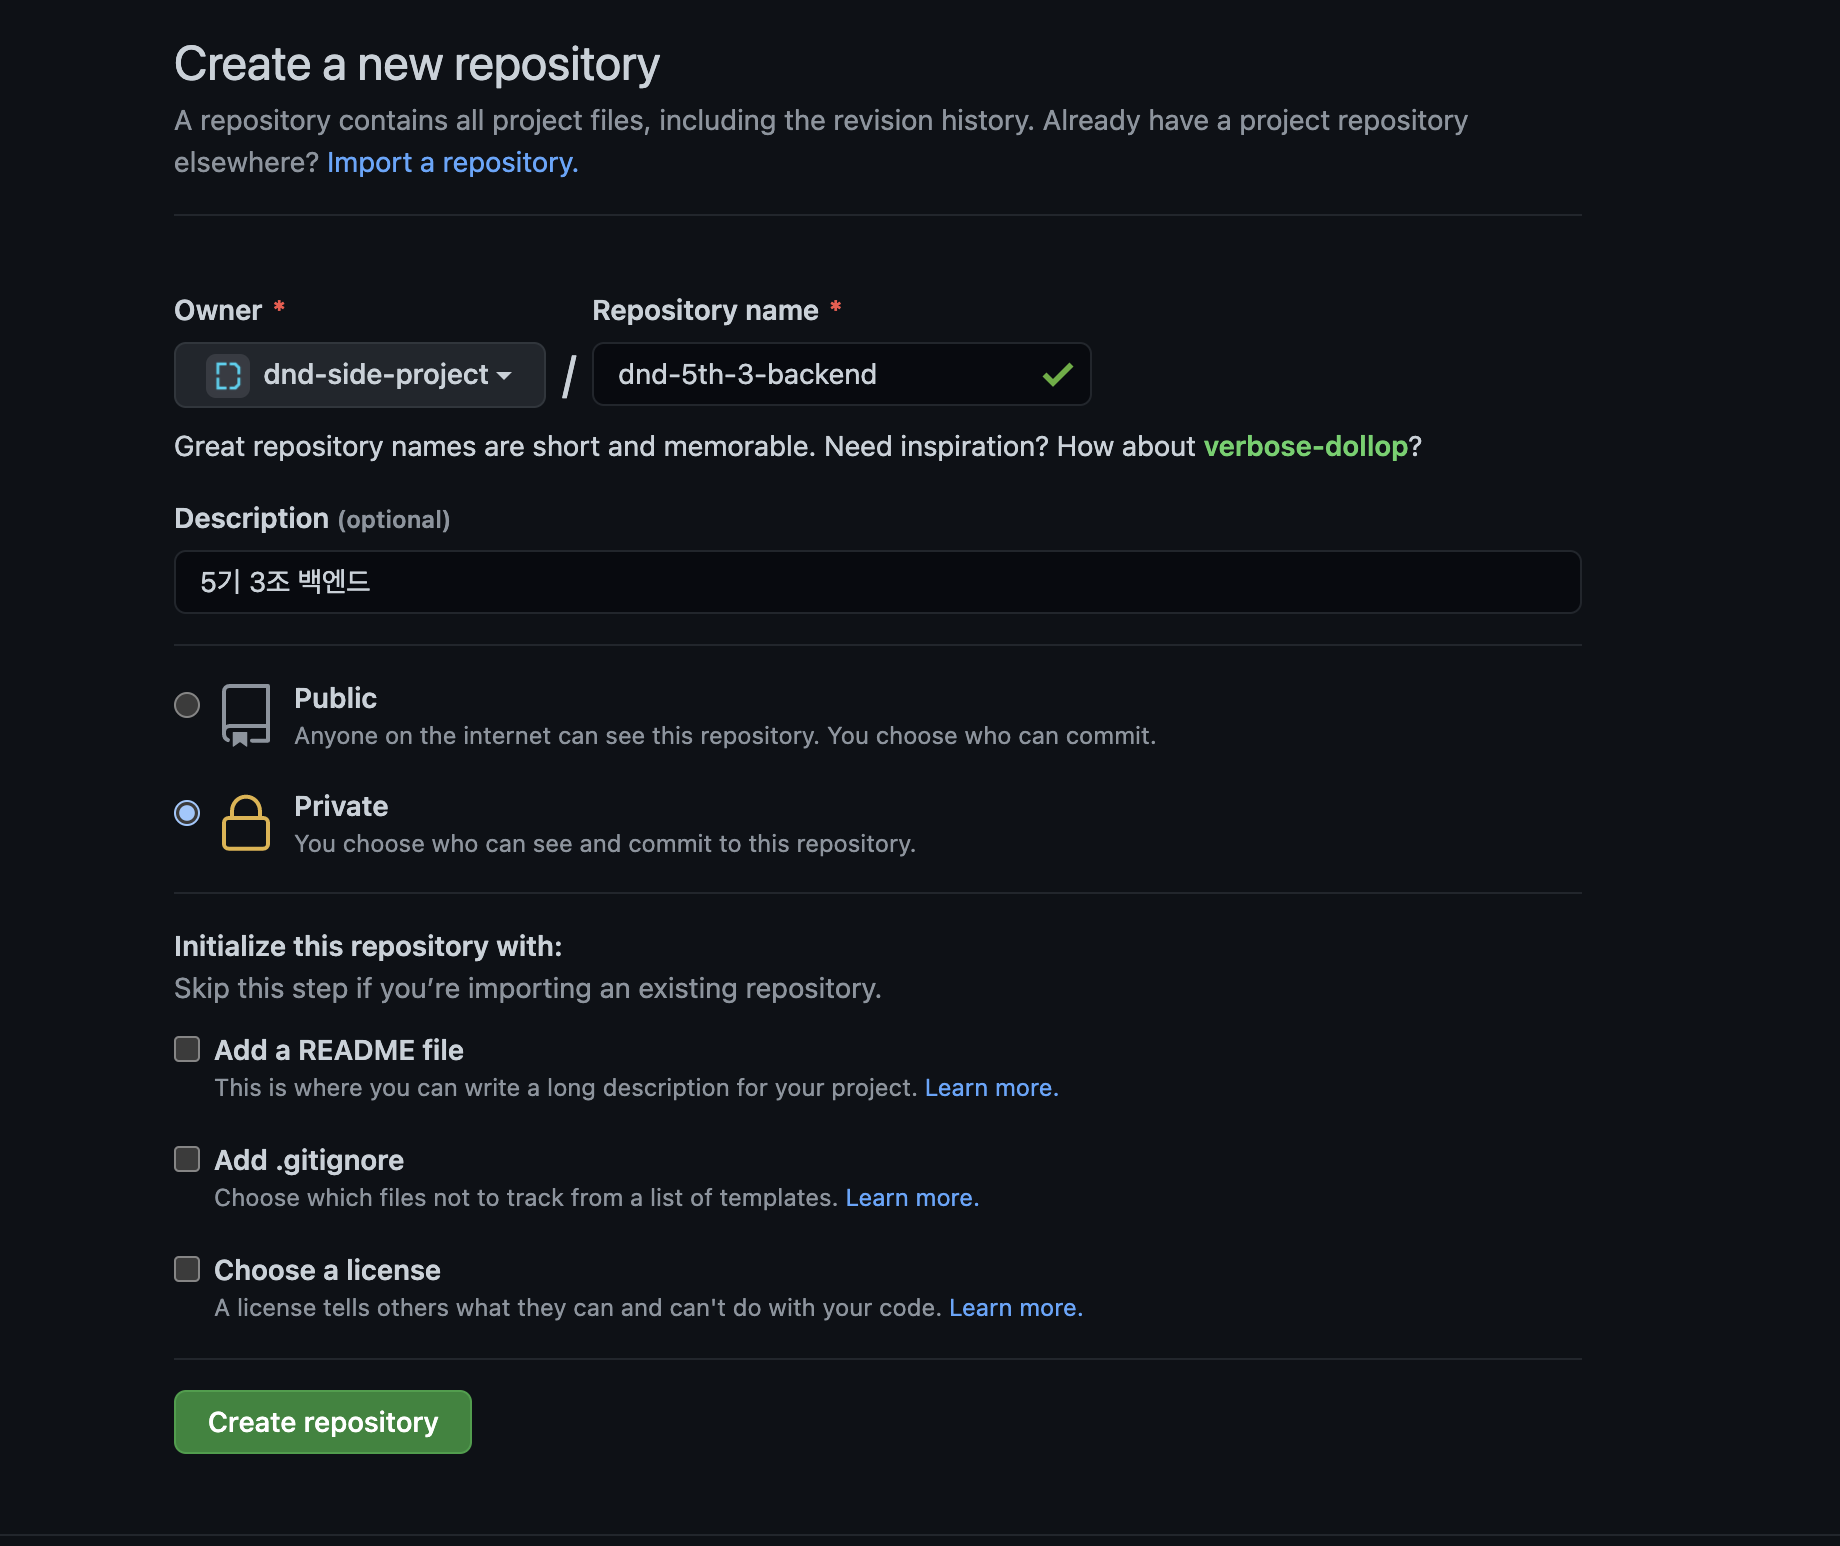
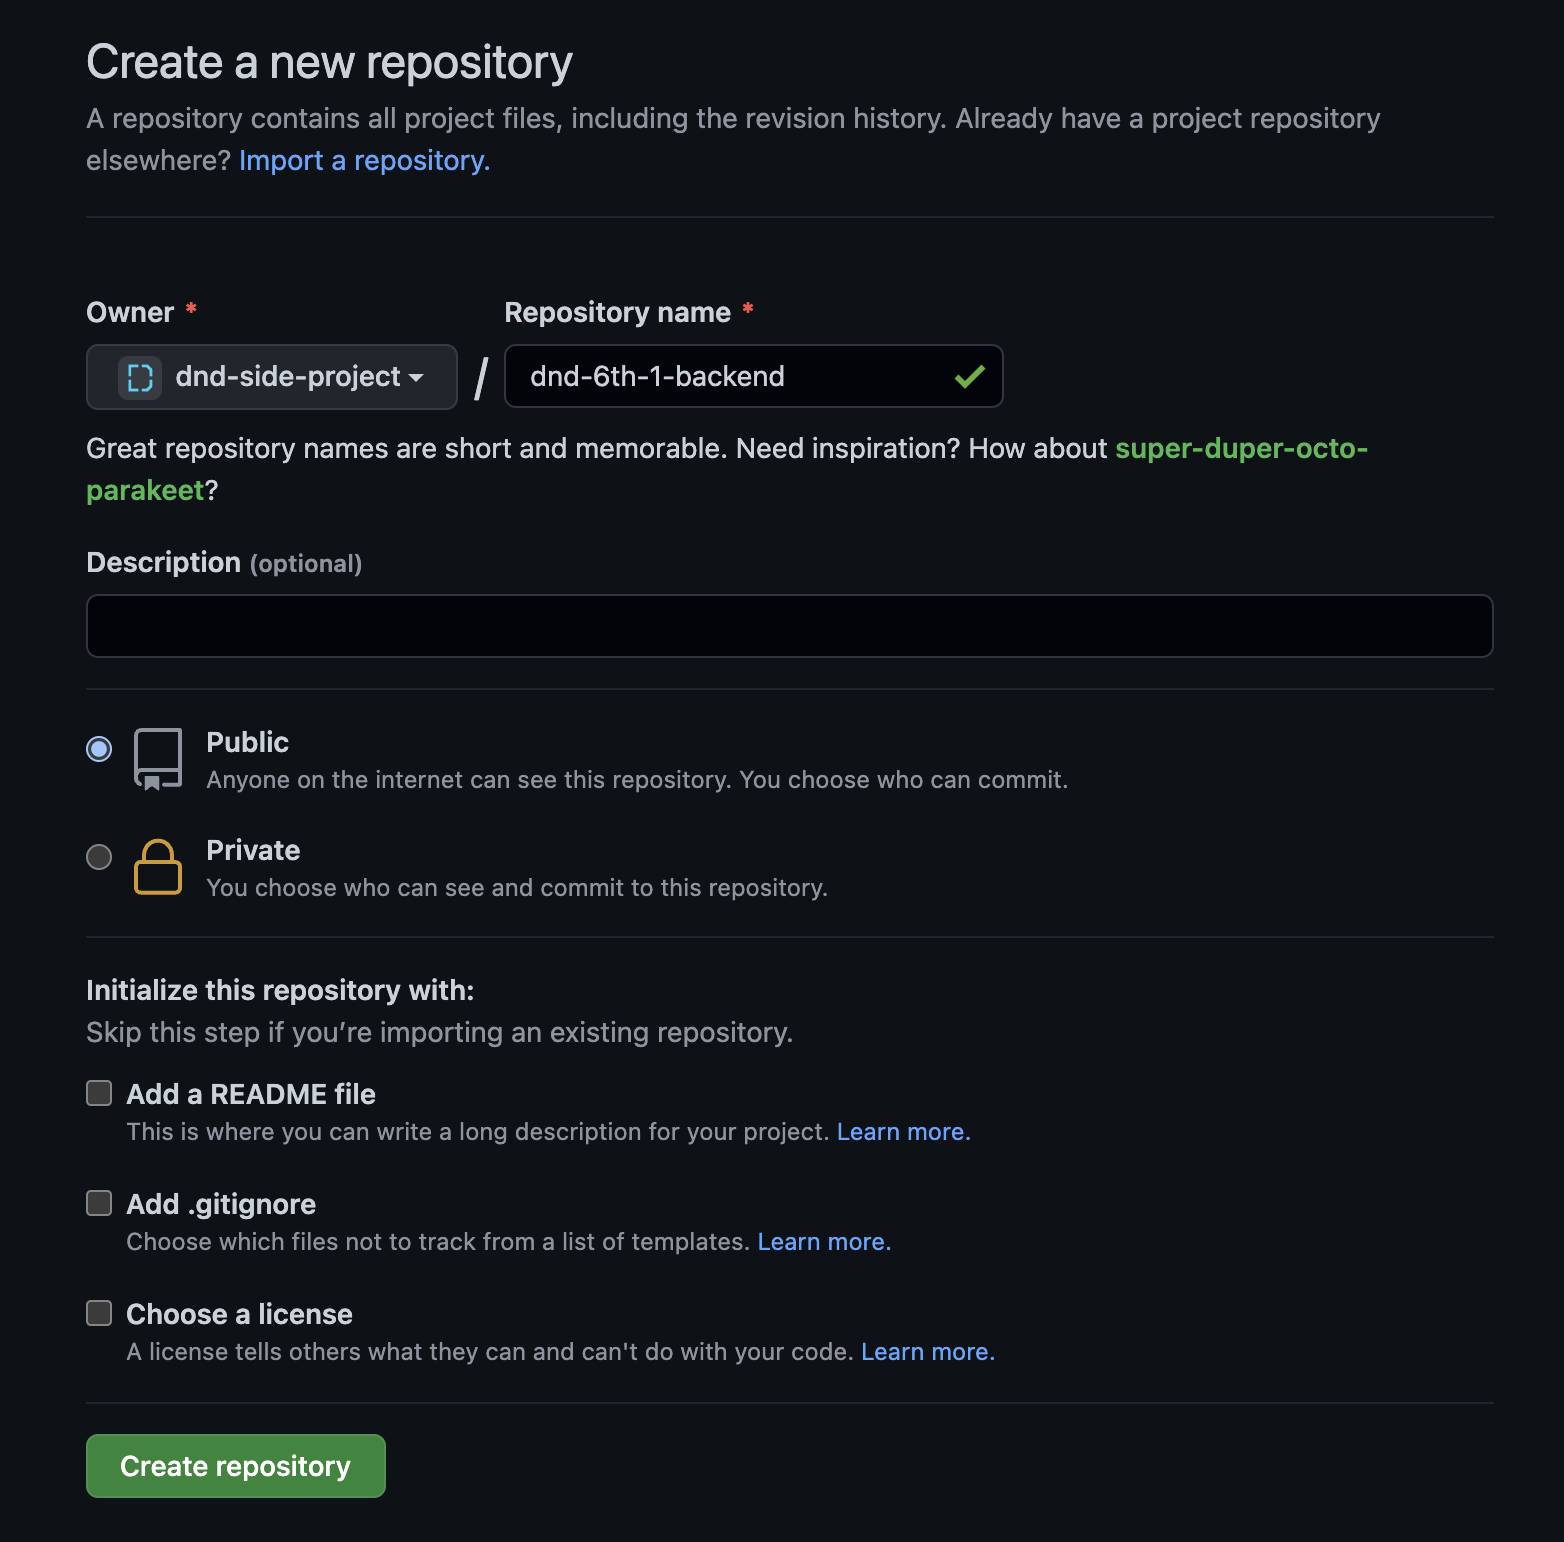
docs: 프로젝트 네이밍 규칙 수정

diff --git a/README.md b/README.md
@@ -22,8 +22,8 @@ D&D에 오신것을 환영합니다.
 ## 프로젝트 생성
 
 1. 네이밍 규칙에 맞는 **organizations** 생성
-   - dnd-**기수(5th)**-**조이름**-**설명 혹은 생략**
-   - ex) dnd-5th-1-backend
+   - dnd-**기수(6th)**-**조이름**-**설명 혹은 생략**
+   - ex) dnd-6th-1-backend
      ![create](/img/project_create_01.png)
 
 ## Wiki 사용하기!
